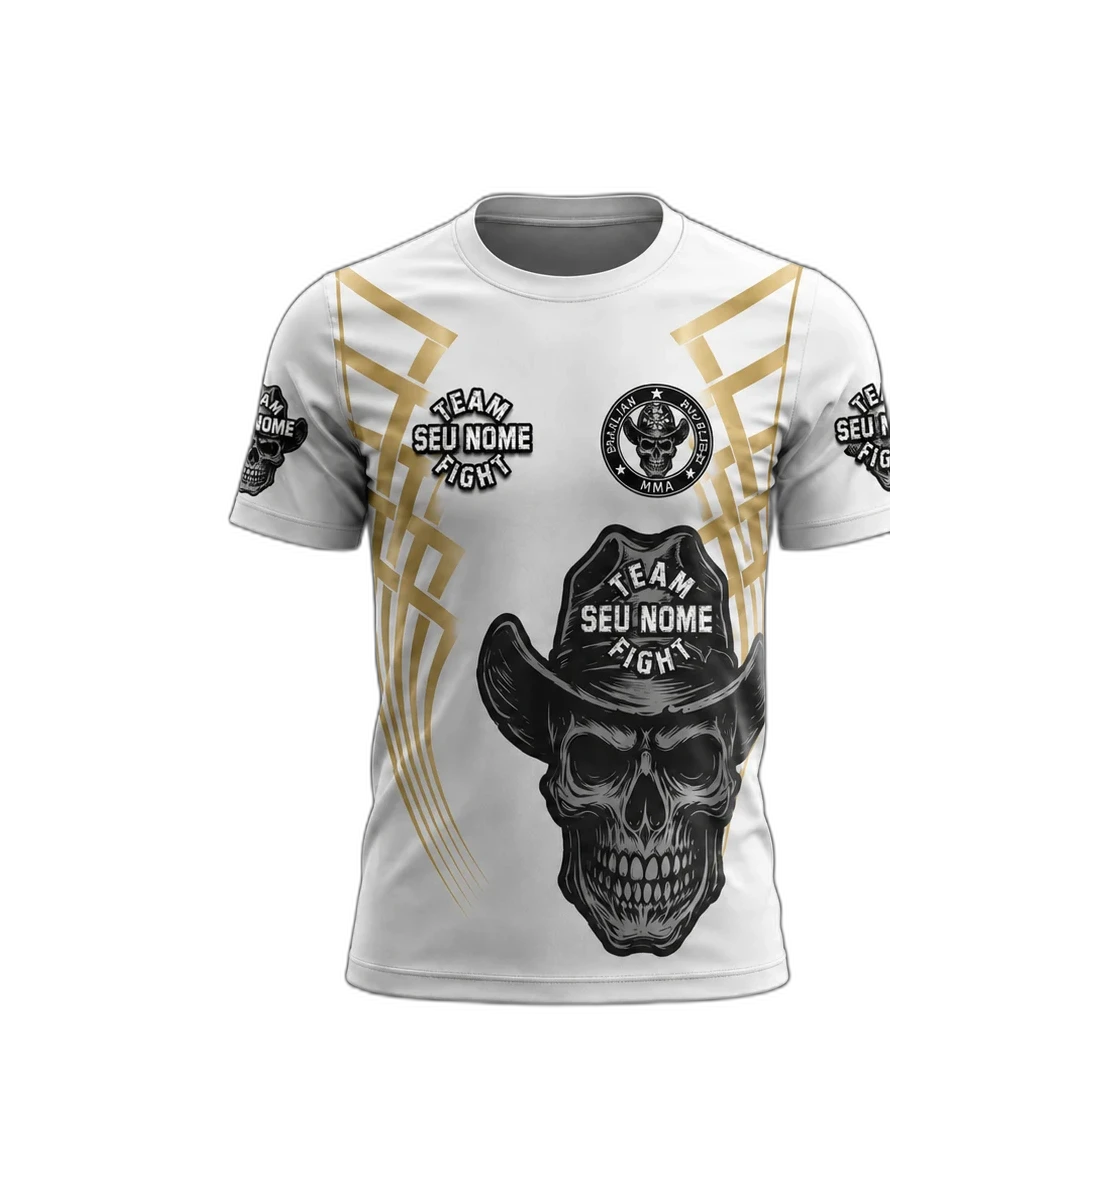
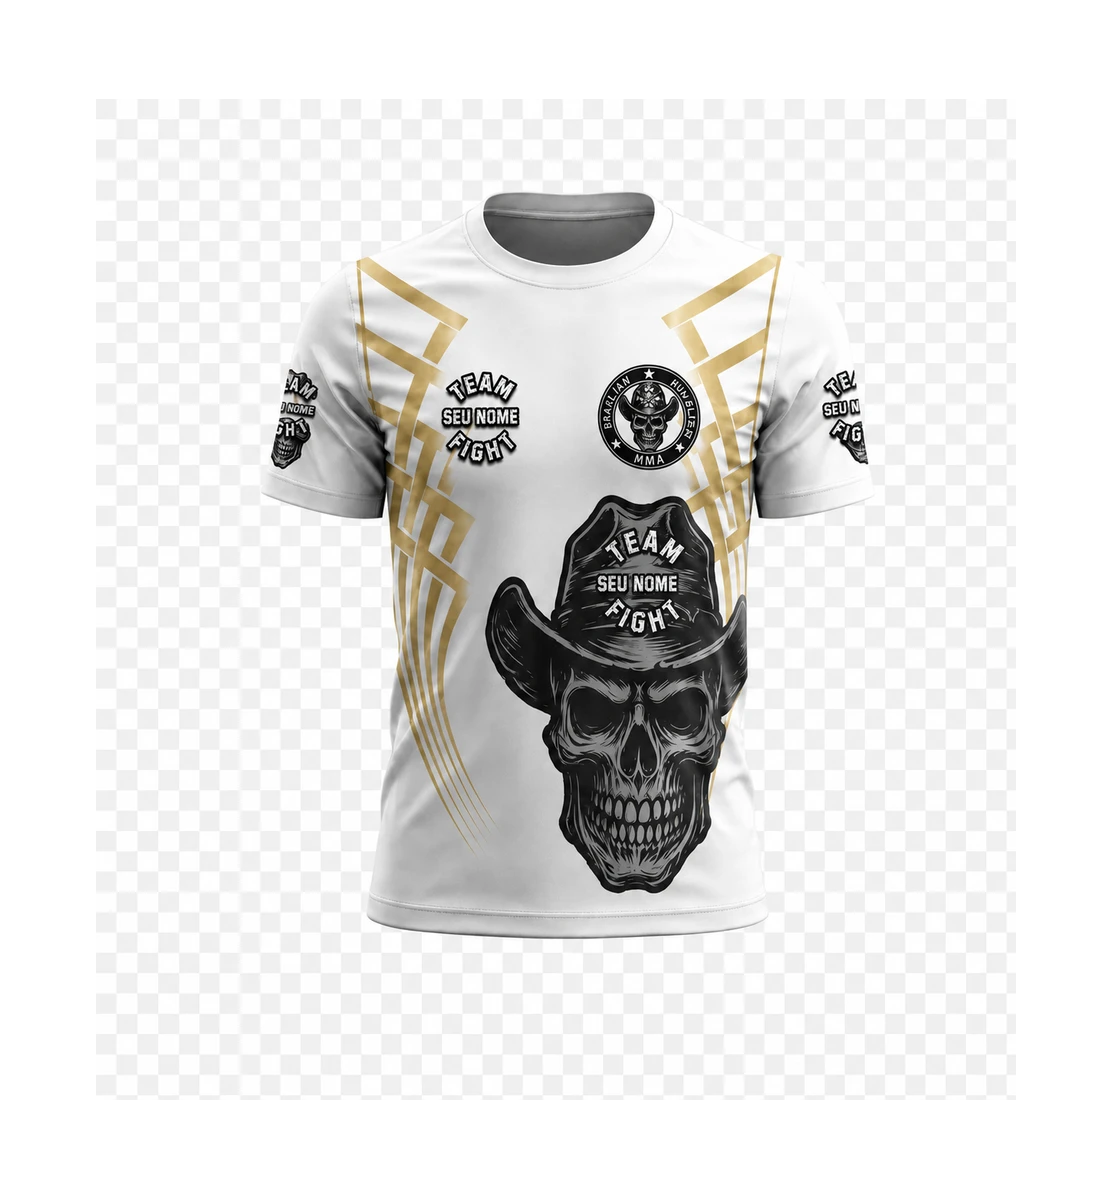
Refine personalized set imagery in store showcase
- Enlarge personalized apparel previews for better visibility
- Refresh personalized shirt and shorts imagery

Changed region(s): [[0.2138, 0.1542, 0.8248, 0.8633]]

diff --git a/client/pages/StorePage.tsx b/client/pages/StorePage.tsx
@@ -19,7 +19,7 @@ export function StorePage({ path }: { path?: string }) {
       <div className="mt-10 space-y-8">{storeSets.map((set) => <article className="overflow-hidden border border-white/10 bg-[#141414]" key={set.name}>
         <div className="grid lg:grid-cols-[minmax(0,1.06fr)_minmax(0,0.94fr)]">
           <div className="relative overflow-hidden bg-[#0b0b0b] p-5 sm:p-8 lg:min-h-[23rem]" style={{ backgroundImage: `url(${STORE_BACKDROP_DATA_URL})`, backgroundPosition: "center", backgroundSize: "cover" }}>
-            <div className="pointer-events-none relative z-20 grid h-44 grid-cols-2 items-center gap-2 opacity-95 sm:h-52 lg:absolute lg:inset-x-10 lg:bottom-16 lg:top-16 lg:z-auto lg:h-auto"><img alt={`${set.name} — camisa`} className="h-full w-full object-contain" src={set.images[0]} /><img alt={`${set.name} — bermuda`} className="h-full w-full object-contain" src={set.images[1]} /></div>
+            <div className="pointer-events-none relative z-20 grid h-44 grid-cols-2 items-center gap-2 opacity-95 sm:h-52 lg:absolute lg:inset-x-10 lg:bottom-16 lg:top-16 lg:z-auto lg:h-auto"><img alt={`${set.name} — camisa`} className={`h-full w-full object-contain ${set.collection === "Personalizado" ? "scale-[1.28]" : ""}`} src={set.images[0]} /><img alt={`${set.name} — bermuda`} className={`h-full w-full object-contain ${set.collection === "Personalizado" ? "scale-[1.28]" : ""}`} src={set.images[1]} /></div>
             <div className="relative z-10 mt-5 flex flex-col justify-between lg:mt-0 lg:h-full"><div><p className="text-[0.6rem] font-black uppercase tracking-[0.2em] text-[#d4af37]">{set.collection}</p><h2 className="mt-3 max-w-sm font-['Teko'] text-5xl font-bold uppercase leading-[0.82] text-white sm:text-6xl">{set.name}</h2></div><div className="mt-8 flex items-end justify-between gap-4 border-t border-white/15 pt-5"><div><p className="text-xs text-white/55">{set.description}</p><strong className="mt-2 block font-['Teko'] text-4xl font-bold leading-none text-[#d4af37]">{priceLabel(set.price)}</strong></div><BuyButton dark product={set.name} /></div></div><div className="pointer-events-none absolute inset-0 hidden bg-[linear-gradient(0deg,rgba(10,10,10,0.9),transparent_52%)] lg:block" />
           </div>
           <div className="grid sm:grid-cols-2 lg:grid-cols-2">{set.pieces.map((item) => <article className="group flex flex-col border-l border-t border-white/10 bg-[#111111] first:border-t-0 sm:first:border-t lg:first:border-t" key={item.id}>
